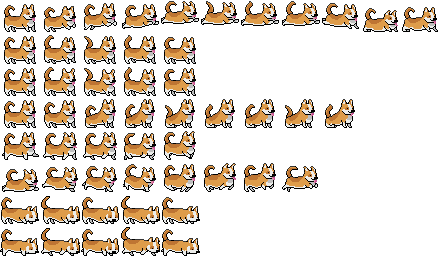
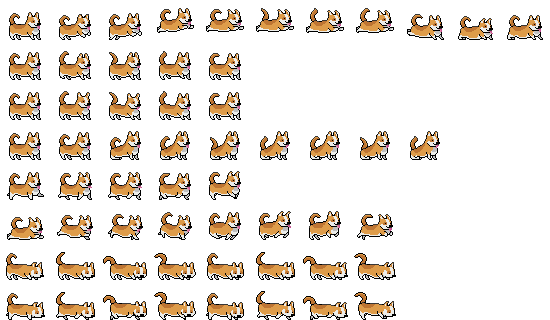
Corgi update

Changed region(s): [[0.0, 0.0, 1.0, 1.0]]

diff --git a/Magix/js/sprites/Corgi.js b/Magix/js/sprites/Corgi.js
@@ -1,0 +1,36 @@
+import TiledImage from "../TiledImage.js";
+
+export default class Corgi{
+    constructor() {
+        let columnCount = 11;
+        let rowCount = 8;
+        this.refreshDelay = 50;
+        this.refreshDelay = 100; //maison
+        let loopColumn = true;
+        let scale = 3.0;
+
+        this.node = document.createElement("div");
+        this.node.setAttribute('id', 'corgi');
+
+
+        this.parentNode = document.querySelector("#terrain");
+        this.parentNode.append(this.node);
+
+        this.corgi = new TiledImage("img/corgi.png", columnCount, rowCount, this.refreshDelay, loopColumn, scale, this.node);
+        this.corgi.changeRow(0);
+        this.corgi.changeMinMaxInterval(0, 10)
+
+
+        this.initialX = this.parentNode.offsetLeft + 50;
+        this.initialY = this.parentNode.offsetTop + 50;
+        this.x = this.initialX;
+        this.y = this.initialY;
+
+    }
+
+    tick(){
+        this.corgi.tick(this.x, this.y);
+        return true;
+    }
+
+}

diff --git a/Magix/js/sprites/Tennisball.js b/Magix/js/sprites/Tennisball.js
@@ -1,0 +1,34 @@
+export default class Tennisball{
+
+    constructor(x, y){
+        this.x = x;
+        this.yZero = y;
+        this.y = y - Math.random() * 150;
+
+        this.node = document.createElement("div");
+        this.node.classList("tennisball");
+
+        this.node.style.top = this.y + "px";
+        this.node.style.left = this.x + "px";
+
+        this.speedY = 2;
+        this.velocityY = 0.5;
+        
+    }
+
+    tick() {
+        this.speedY += this.velocityY;
+
+        let y = this.node.offsetTop;
+
+        y += this.speedY;
+
+        if (y > this.yZero) {
+            this.speedY = -this.speedY / 1.5;
+            y = this.yZero;
+        }
+
+        this.node.style.top = y + "px";
+
+    }
+}

diff --git a/Magix/partial/header.php b/Magix/partial/header.php
@@ -7,7 +7,7 @@
     <title>Document</title>
     <link rel="stylesheet" href="css/global.css">
     <link rel="stylesheet" href="css/<?= $pageName?>.css">
-    <script src="js/<?= $pageName?>.js"></script>
+    <script type="module" src="js/<?= $pageName?>.js"></script>
 
 
 

diff --git a/Magix/index.php b/Magix/index.php
@@ -28,7 +28,6 @@
     </div>
 
     <div id="terrain">
-        <div id="corgi"></div>
     </div>
 
 </div>
